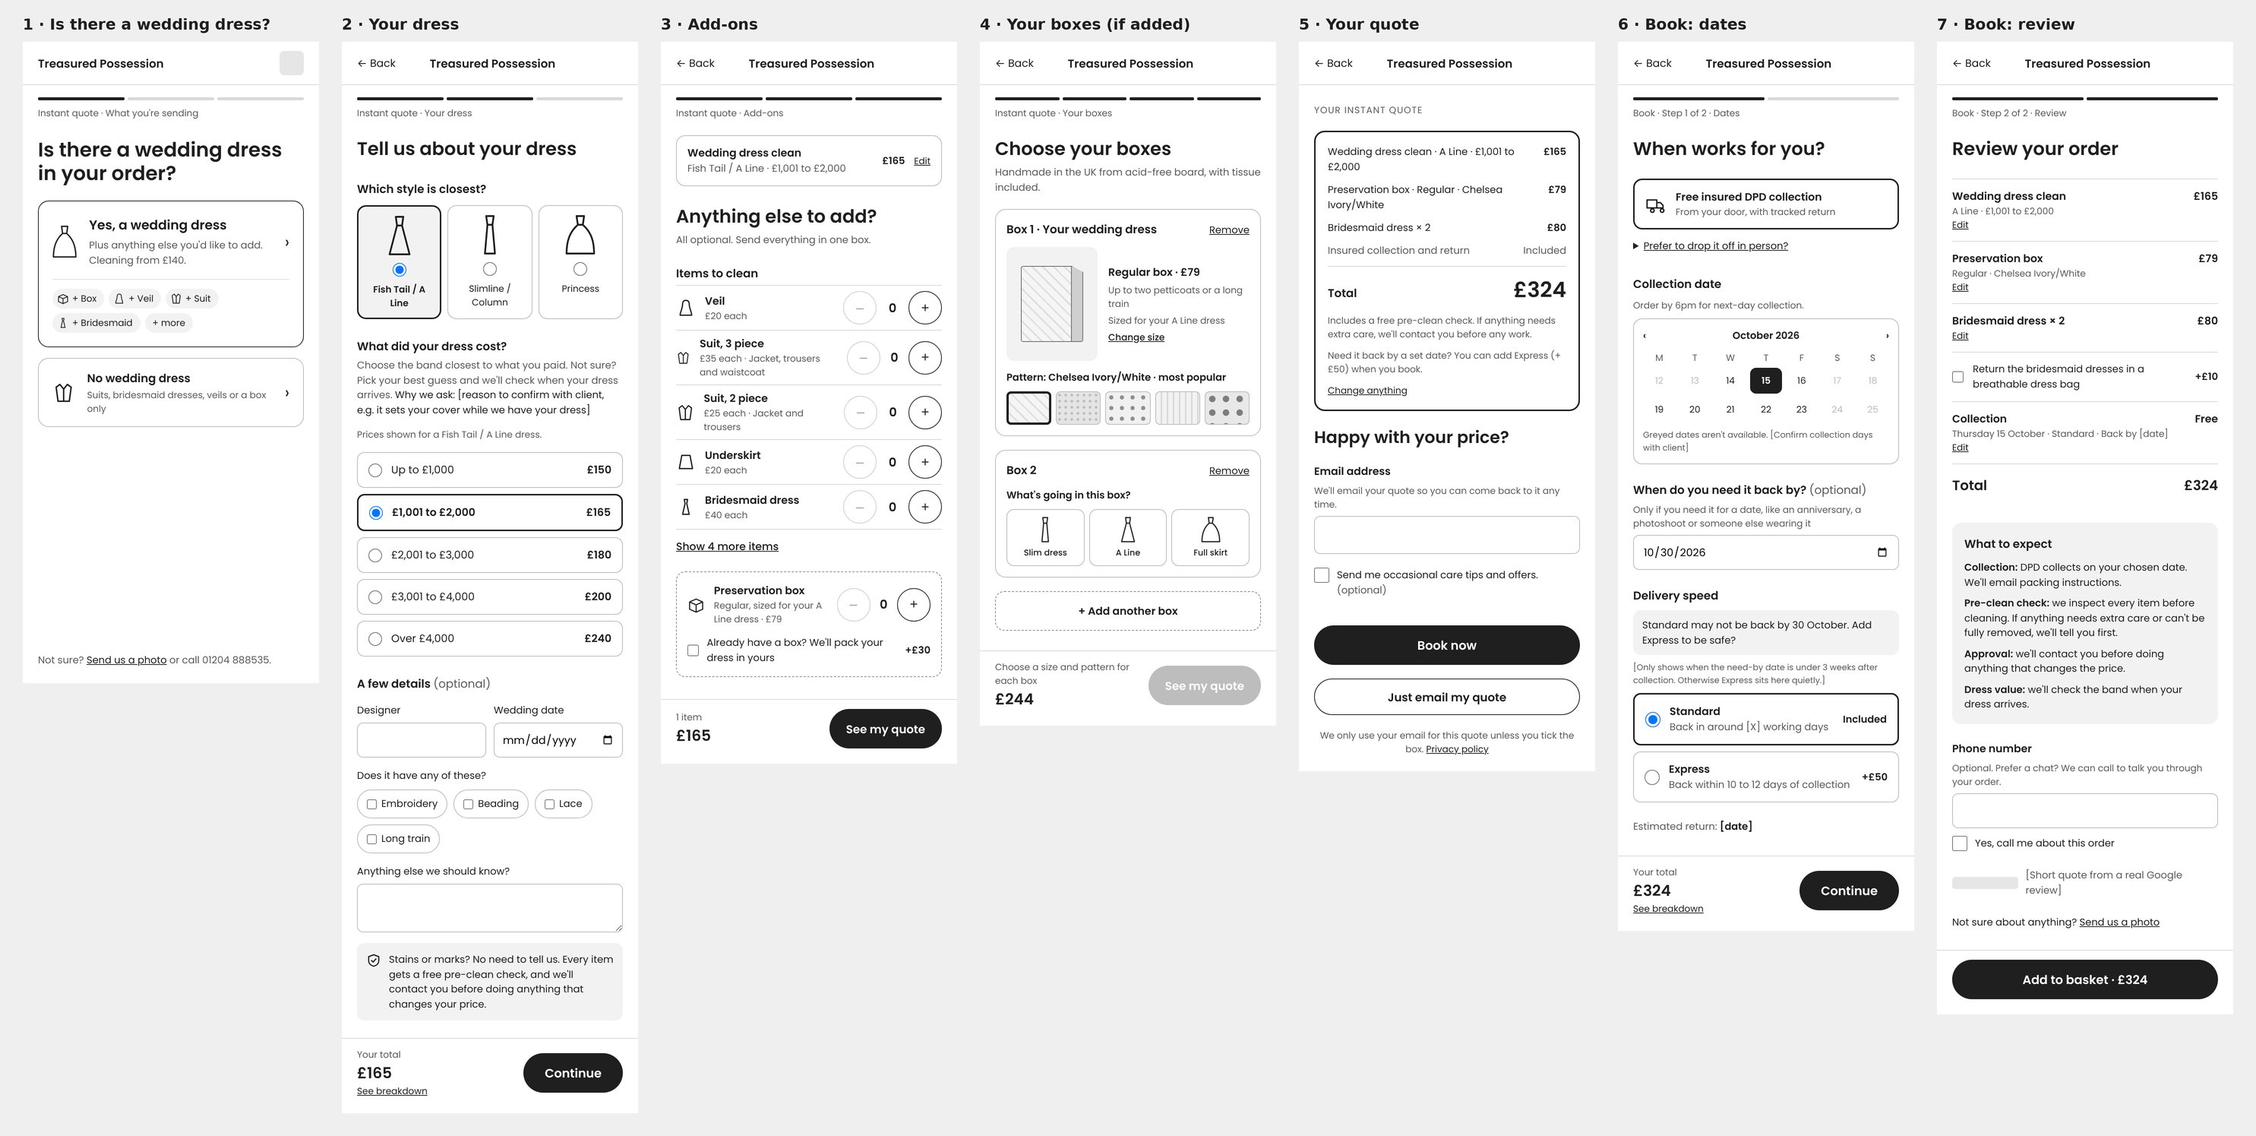
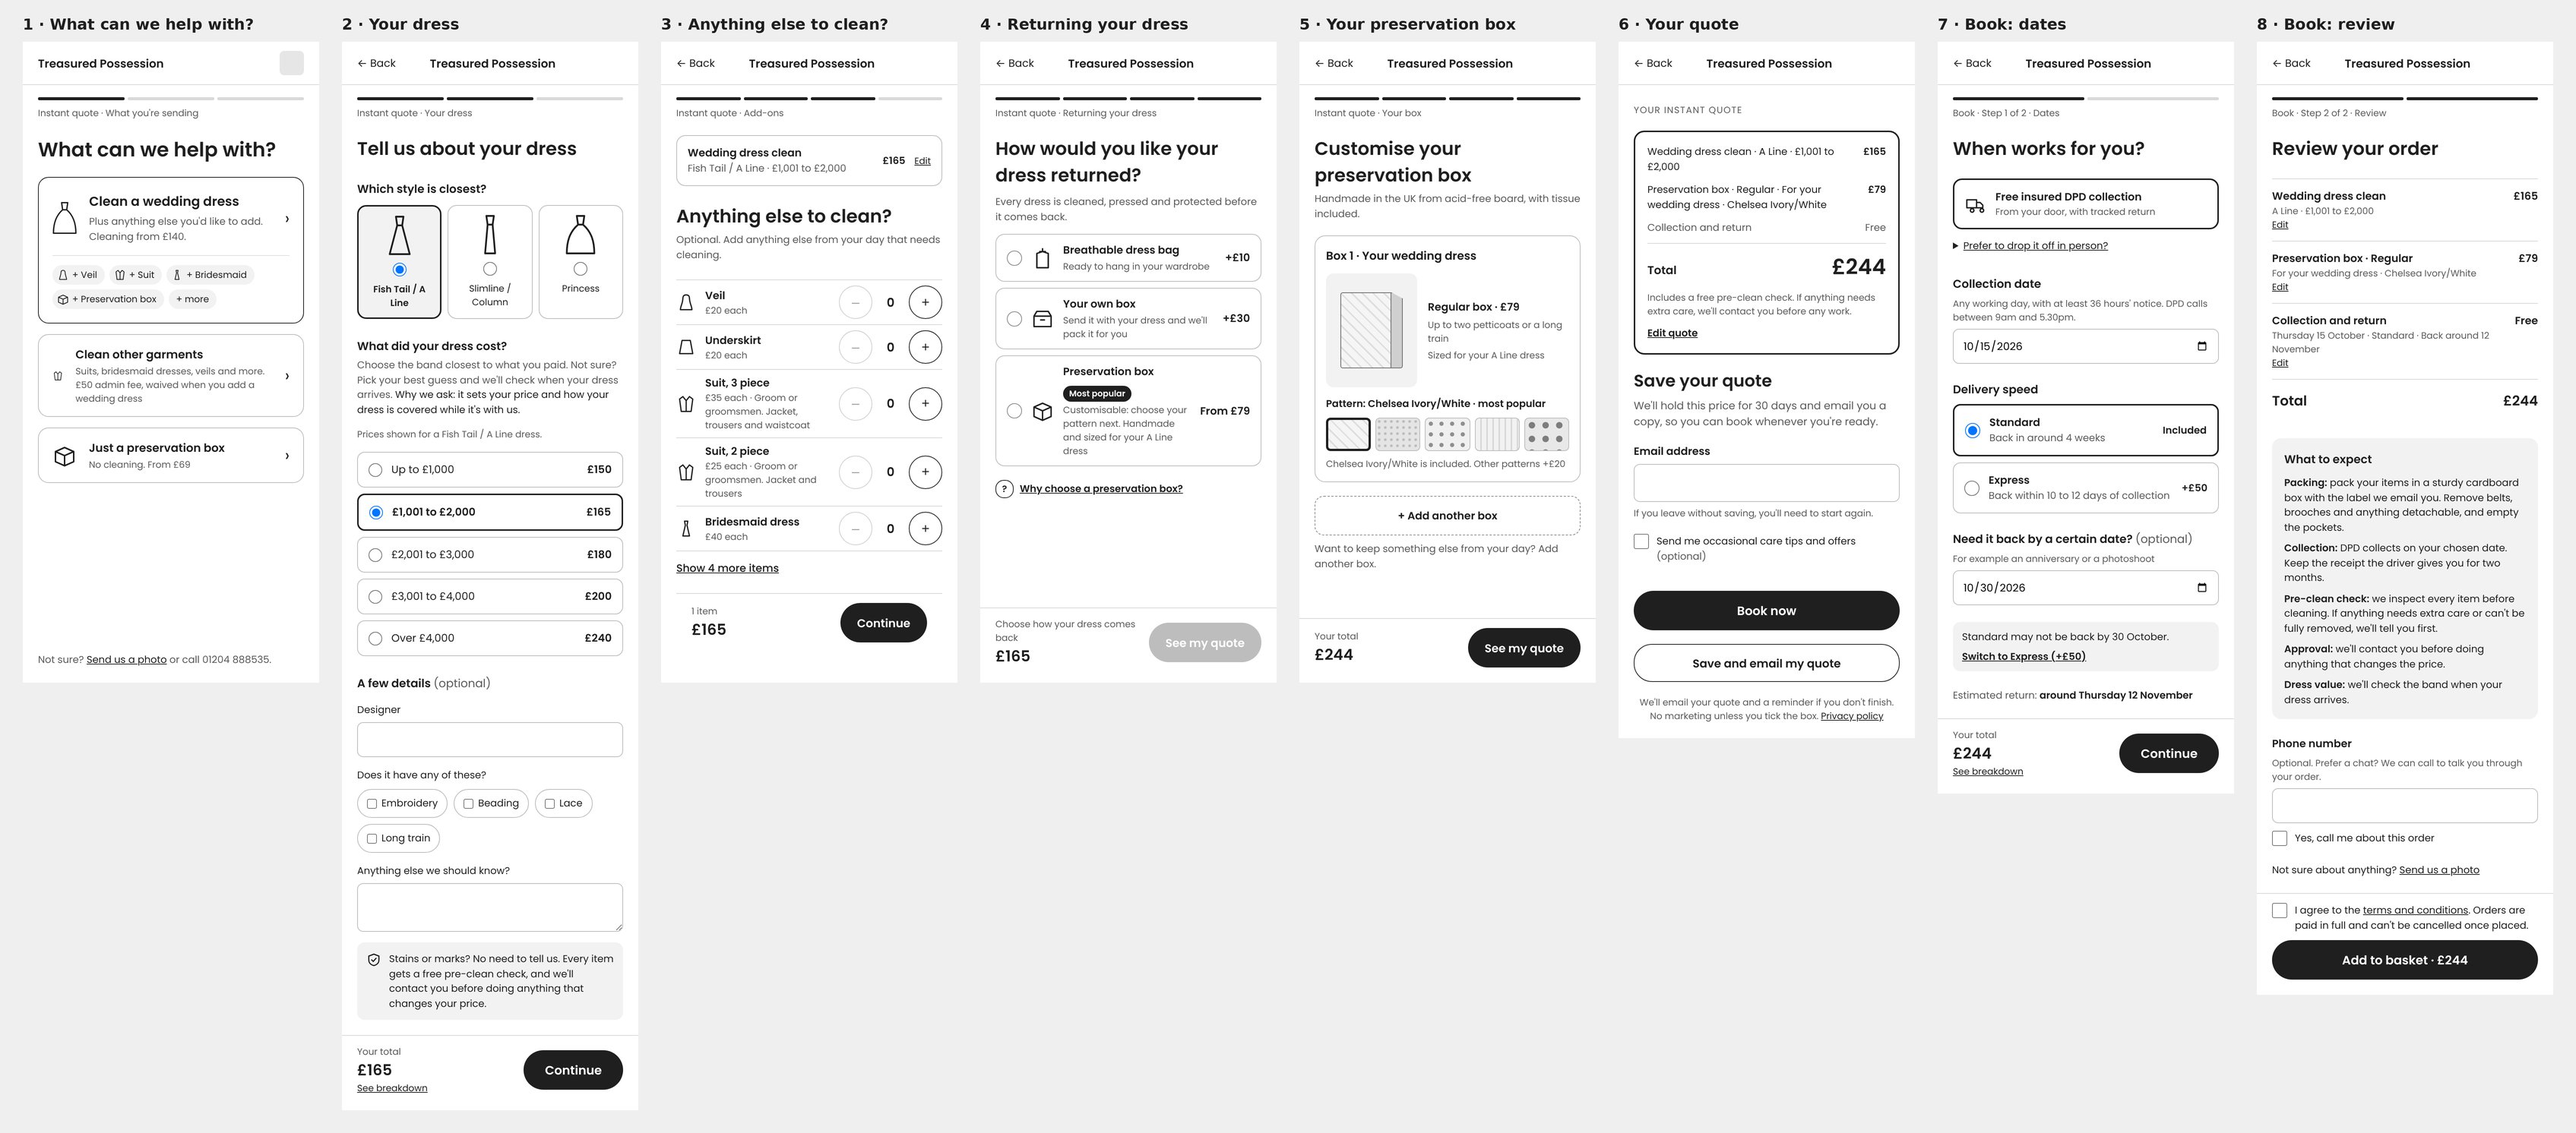
Add files via upload

diff --git a/treasured-possession.html b/treasured-possession.html
@@ -105,6 +105,11 @@
     .cs-stat-label { font-size: 15px; line-height: 1.45; color: var(--ink); margin: 0; }
     .cs-stat-sub { font-size: 12px; color: var(--muted-ink); margin: auto 0 0 0; line-height: 1.5; }
     .cs-stats--3 { grid-template-columns: repeat(3, 1fr); }
+    .cs-flow--tall .cs-flow-scroll { max-height: 820px; overflow-y: auto; overflow-x: hidden; }
+    .cs-flow--tall .cs-flow-scroll img { width: 100%; max-width: 640px; margin: 0 auto; }
+    @media (max-width: 800px) { .cs-flow--tall .cs-flow-scroll img { width: 100% !important; max-width: 100%; } .cs-flow--tall::after { display: none; } }
+    .cs-photos { display: grid; grid-template-columns: 1fr 1fr; gap: 16px; }
+    @media (max-width: 640px) { .cs-photos { grid-template-columns: 1fr; } }
     .cs-stats--simple .cs-stat { min-height: 0; }
     /* 1 in 5: people */
     .cs-people { display: flex; gap: 6px; }
@@ -506,7 +511,7 @@
             <tr><th scope="row">The price depends on dress style as well as value. Within each band, Slimline costs £20 less than Princess, and A Line £10 less.</th><td>Style is asked first, so each value band can show the customer's real price. It also explains the price ranges on the price list.</td></tr>
             <tr><th scope="row">The box size always follows the style: Slimline gets Small, A Line gets Regular, Princess gets Large.</th><td>The box is sized automatically from the dress, so customers only choose a pattern.</td></tr>
             <tr><th scope="row">A Line is 49% of dresses. Chelsea Ivory is 83% of box patterns.</th><td>The most common choices are listed first. The pattern most people choose is selected by default.</td></tr>
-            <tr><th scope="row">44% of dress orders add at least one extra, and most add just one. The veil is the most common (89 orders), then suits (21).</th><td>The five most-ordered extras show first, ordered by popularity. The rest sit behind "Show 4 more items".</td></tr>
+            <tr><th scope="row">44% of dress orders add at least one extra, and most add just one. The veil is the most common (89 orders), then suits (21).</th><td>Extras are listed in order of popularity, starting with the veil.</td></tr>
             <tr><th scope="row">Only 4% of orders choose Express. 40% of "delivery dates" were exactly 28 days after collection, the form's default.</th><td>"Need it back by" became optional, and Express is suggested only when that date is close.</td></tr>
             <tr><th scope="row">About 1 in 10 orders is a box only, with no cleaning.</th><td>The no-wedding-dress route also handles box-only orders.</td></tr>
           </tbody>
@@ -688,30 +693,31 @@
       <article class="project-body">
         <span class="cs-eyebrow scroll-reveal">User Flow</span>
         <h2 class="scroll-reveal">Splitting the journey by what's being sent</h2>
-        <p class="scroll-reveal sr-d2">The old form assumed every customer had a wedding dress. The new tool starts with one question, "Is there a wedding dress in your order?". Customers with other items, or a box only, skip the dress questions and go straight to the items list. They can still add a dress later without losing anything.</p>
+        <p class="scroll-reveal sr-d2">The old form assumed every customer had a wedding dress. The new tool starts with one question, "What can we help with?", with three answers: clean a wedding dress, clean other garments, or just a preservation box. Customers without a dress skip the dress questions entirely, and can still add one later without losing anything.</p>
         <p class="scroll-reveal sr-d2">The journey is split into two parts: get a quote, then book. Customers see their price before being asked for dates, so the quote is useful even to people who aren't ready to book.</p>
         <ol class="cs-steps scroll-reveal sr-d2">
-          <li><b>Your dress</b>Style first, then value bands priced for that style, plus optional details</li>
-          <li><b>Add-ons</b>The most-ordered extras with steppers, and a preservation box sized from the dress</li>
-          <li><b>Your boxes</b>Only if a box was added: pattern for each box, with a live preview</li>
-          <li><b>Your quote</b>Itemised total, saved by email</li>
-          <li><b>Book</b>Collection date, "need it back by" and delivery speed, then a review step</li>
+          <li><b>Your dress</b>Style first, then value bands priced for that style</li>
+          <li><b>Anything else to clean?</b>Extras with quantity steppers, most popular first</li>
+          <li><b>Returning your dress</b>Breathable bag, own box or a preservation box sized from the dress</li>
+          <li><b>Your preservation box</b>Only if a box was chosen: pattern, live preview, and extra boxes for other items</li>
+          <li><b>Your quote</b>Itemised total, saved and emailed</li>
+          <li><b>Book</b>Collection date, delivery speed and an optional "need it back by", then review</li>
         </ol>
       </article>
 
       <div class="cs-media scroll-reveal">
-        <div class="cs-flow cs-flow--wide">
+        <div class="cs-flow cs-flow--tall">
           <div class="cs-flow-scroll">
-            <img src="/img/portfolio/treasured-possession/tp-user-flow.jpg" alt="User flow: from the quote page, an email capture test sends customers either to an email step or straight on; customers choose wedding dress or other items, wedding dress orders go through order, extras and dates, items-only orders skip to dates; Clean and Box orders and box-only orders go through a Your box step for size and pattern; Express is suggested when the back-by date is tight; customers without an email give one at Save your quote; then review, basket and checkout, with resume and abandoned-cart emails bringing people back" loading="lazy">
+            <img src="/img/portfolio/treasured-possession/tp-user-flow.jpg" alt="User flow in three parts. Get an instant quote: from the quote page or a service page link, customers choose wedding dress, other garments or box only; dress customers choose style and value, extras and how the dress is returned; anyone choosing a preservation box customises it; then an itemised quote, saved with an email. Book: dates, delivery speed with Express offered when the need-by date is tight, review, basket and checkout. Coming back: quote, reminder, abandoned cart and confirmation emails, with a resume link that reopens the quote." loading="lazy">
           </div>
           <div class="cs-flow-tools">
-            <span class="cs-flow-hint"><svg width="16" height="16" viewBox="0 0 24 24" fill="none" stroke="currentColor" stroke-width="2" stroke-linecap="round" stroke-linejoin="round" aria-hidden="true"><polyline points="15 6 21 12 15 18"/><line x1="3" y1="12" x2="21" y2="12"/></svg>Scroll sideways to follow the flow</span>
+            <span class="cs-flow-hint" style="display:inline-flex">Scroll to follow the flow</span>
             <span aria-hidden="true"></span>
             <button type="button" class="cs-flow-btn" data-zoom-src="/img/portfolio/treasured-possession/tp-user-flow.jpg" data-zoom-title="User flow"><svg viewBox="0 0 24 24" fill="none" stroke="currentColor" stroke-width="2.5" stroke-linecap="round" stroke-linejoin="round" aria-hidden="true"><polyline points="15 3 21 3 21 9"/><polyline points="9 21 3 21 3 15"/><line x1="21" y1="3" x2="14" y2="10"/><line x1="3" y1="21" x2="10" y2="14"/></svg>View full size</button>
           </div>
         </div>
         <p class="cs-caption">Two entry paths, one review step, and automated emails that bring customers back to the step they left.</p>
-        <div class="cs-todo"><strong>To update: flow diagram</strong>Redraw to match the final wireframes: wedding dress question, add-ons, optional box step, quote, then booking.</div>
+        
       </div>
 
       <div class="divider"></div>
@@ -726,7 +732,7 @@
       <div class="cs-media scroll-reveal">
         <div class="cs-flow cs-flow--wide">
           <div class="cs-flow-scroll">
-            <img src="/img/portfolio/treasured-possession/tp-wireframes.jpg" alt="Seven mobile wireframes in order: is there a wedding dress in your order; your dress with style cards and priced value bands; add-ons with quantity steppers and a preservation box; your boxes with a box preview and pattern swatches; your quote with an itemised £324 total and email field; booking dates with DPD collection, calendar and delivery speed; and review with edit links, what to expect and add to basket" loading="lazy">
+            <img src="/img/portfolio/treasured-possession/tp-wireframes.jpg" alt="Eight mobile wireframes in order: what can we help with, with three choices; your dress, with style cards and priced value bands; anything else to clean, with quantity steppers; returning your dress, with bag, own box or preservation box; customise your preservation box, with a box preview and pattern swatches; your quote, with an itemised total and save options; booking dates, with DPD collection and delivery speed; and review, with edit links and add to basket" loading="lazy">
           </div>
           <div class="cs-flow-tools">
             <span class="cs-flow-hint"><svg width="16" height="16" viewBox="0 0 24 24" fill="none" stroke="currentColor" stroke-width="2" stroke-linecap="round" stroke-linejoin="round" aria-hidden="true"><polyline points="15 6 21 12 15 18"/><line x1="3" y1="12" x2="21" y2="12"/></svg>Scroll sideways to see every step</span>
@@ -765,7 +771,7 @@
           </div>
           <div class="insight-item">
             <div class="insight-label">Quantity steppers for extras · Finding 6, order data</div>
-            <p>Additional items use – 0 + steppers, matching the instruction to choose a quantity. The five most-ordered items show first, led by the veil, and the rest sit behind "Show 4 more items" so single-dress customers aren't slowed down.</p>
+            <p>Additional items use – 0 + steppers, matching the instruction to choose a quantity. They're listed in order of popularity, led by the veil. The first version hid the less popular items behind "Show more"; testing showed people preferred to see everything, so all items now show.</p>
           </div>
           <div class="insight-item">
             <div class="insight-label">Express suggested at the right moment · Findings 7, 8, order data</div>
@@ -819,16 +825,52 @@
       <article class="project-body">
         <span class="cs-eyebrow scroll-reveal">Testing</span>
         <h2 class="scroll-reveal">Testing with people, not just numbers</h2>
-        <p class="scroll-reveal sr-d2">The prototype goes through the same guerrilla test as the current form: five colleagues, the same three tasks (price a dress, add extras with a deadline, price a suit only). I record task success, time to first price, ease scores and what they say, so the two rounds compare directly.</p>
-        <div class="cs-todo"><strong>To add: v1 → finding → v2</strong>For each change made after testing: the prototype before, what participants did or said, and the revised design.</div>
+        <p class="scroll-reveal sr-d2">Tim, the developer, and I built the wireframes into a working prototype that calculated real prices, then tested it with colleagues from outside the project. Each person worked through a scenario, such as a price-conscious customer or someone who needed their dress back quickly, on a phone or desktop.</p>
+        <div class="cs-todo"><strong>To add: test details</strong>Number of participants, the scenarios used, and any measures (task completion, time to a price).</div>
+      </article>
+
+      <div class="cs-media scroll-reveal">
+        <div class="cs-photos">
+          <div class="cs-todo cs-todo--img"><strong>Photo: testing session 1</strong>A colleague working through the prototype.<br><code>/img/portfolio/treasured-possession/tp-testing-1.jpg</code></div>
+          <div class="cs-todo cs-todo--img"><strong>Photo: testing session 2</strong>A second session, ideally on a phone.<br><code>/img/portfolio/treasured-possession/tp-testing-2.jpg</code></div>
+        </div>
+        <p class="cs-caption">Testing the prototype with colleagues.</p>
+      </div>
+
+      <article class="project-body">
+        <h3 class="scroll-reveal">What we found and what changed</h3>
+      </article>
+      <div class="cs-table-wrap scroll-reveal">
+        <table class="cs-table">
+          <thead><tr><th scope="col">Step</th><th scope="col">What we found</th><th scope="col">Change for the next version</th></tr></thead>
+          <tbody>
+            <tr><th scope="row">Start</th><td>The extras listed on the wedding dress card (veil, suit, bridesmaid, box) cluttered the first decision.</td><td>Remove them, leaving three clear choices.</td></tr>
+            <tr><th scope="row">Your dress</th><td>Some testers weren't sure which style their dress was, and the price didn't change until a value band was chosen.</td><td>A "Not sure?" panel suggests choosing by the size of the dress, with a number to call for help. Each style shows its "from" price, so the total updates straight away. Styles reordered from slimmest to fullest: Slimline, Fishtail, Princess.</td></tr>
+            <tr><th scope="row">Extras</th><td>Testers preferred to see every item without tapping "Show more", and there was no option for a page boy.</td><td>Show all items, and add a page boy suit at the same price as a flower girl dress.</td></tr>
+            <tr><th scope="row">Your box</th><td>No issues.</td><td>No change.</td></tr>
+            <tr><th scope="row">Quote summary</th><td>"Edit quote" was a small text link and easy to miss.</td><td>Make it a full button, and add an "Edit" button with a pencil icon at the top of the summary.</td></tr>
+            <tr><th scope="row">Delivery</th><td>It wasn't clear that DPD comes to collect. The drop-off option sat above the dates, and the plain date picker didn't show what each date meant for delivery speed.</td><td>Reword the collection card, move drop-off below the dates, and use a calendar in the style of hotel booking sites that marks each date as Standard or Express (+£50), by colour and label. Put "(optional)" beside the phone number heading.</td></tr>
+            <tr><th scope="row">Desktop</th><td>On desktop, moving on relied on the running total bar.</td><td>Add a Continue button at the bottom of every step.</td></tr>
+          </tbody>
+        </table>
+      </div>
+
+      <article class="project-body">
+        <h3 class="scroll-reveal">What people questioned</h3>
+        <ul class="cs-findings scroll-reveal sr-d2">
+          <li><span class="cs-num cs-num--plain">“</span><div><b>"Why does it cost £30 to use your own box?"</b> People couldn't see what they were paying for. The next version explains that the dress is folded with acid-free tissue and packed for them. Whether £30 is the right price is a question for the client: only 8 orders used it last year.</div></li>
+          <li><span class="cs-num cs-num--plain">“</span><div><b>The admin fee felt like a penalty.</b> The client wanted a charge on orders without a wedding dress, to make small orders worth collecting. Testers saw the admin fee as a negative. One option for the next version is to name what the charge pays for, "collection and return, free with a wedding dress", so it reads as a service rather than a penalty.</div></li>
+        </ul>
+        <div class="cs-todo"><strong>To add: before and after</strong>Two or three of the changes above as v1 → v2 screenshots, for example the dress step with "from" prices and the colour-coded calendar.</div>
+
         <h3 class="scroll-reveal">Where to ask for the email</h3>
-        <p class="scroll-reveal sr-d2">The client's priority was capturing leads, but none of the competitors ask for an email before showing a price. We compared two versions:</p>
+        <p class="scroll-reveal sr-d2">The client's first instinct was to ask for an email before showing any prices, to capture leads. None of the competitors do this, and it adds effort before customers know whether the service is affordable. We compared two versions:</p>
         <div class="cs-test scroll-reveal sr-d2">
           <div><h4>Version A: email first</h4><p>Customers enter their email before seeing any prices.</p></div>
-          <div><h4>Version B: price first</h4><p>Prices show from the first step, and the email is asked for at "Save your quote", before review.</p></div>
+          <div><h4>Version B: price first</h4><p>The quote shows first, and the email saves it, with a promise to hold the price for 30 days.</p></div>
         </div>
-        <p class="scroll-reveal sr-d2" style="margin-top:20px;">A live A/B test only gives a reliable answer with enough traffic. Detecting a rise in conversion from 3% to 4% needs roughly 5,000 visitors per version, and the order data showed about 23 orders a month. The plan is to launch with the client's email-first version, then test price-first measured on completed quotes and leads rather than orders, as those happen far more often. Both versions are also compared in the office sessions.</p>
-        <div class="cs-todo"><strong>To add: which route was taken and the result</strong>Including if it was inconclusive.</div>
+        <p class="scroll-reveal sr-d2" style="margin-top:20px;">With around 23 orders a month, a live A/B test on orders would take months to give an answer. Instead, we agreed to launch price first, framing the email as "Save your quote" so it offers something in return. Every saved quote is recorded with its own status in WooCommerce, which shows how many quotes become orders and gives the client leads to follow up. Email first stays ready to test against it.</p>
+        <div class="cs-todo"><strong>To add after launch</strong>How many quotes were saved, and how many turned into orders.</div>
       </article>
 
       <div class="divider"></div>
